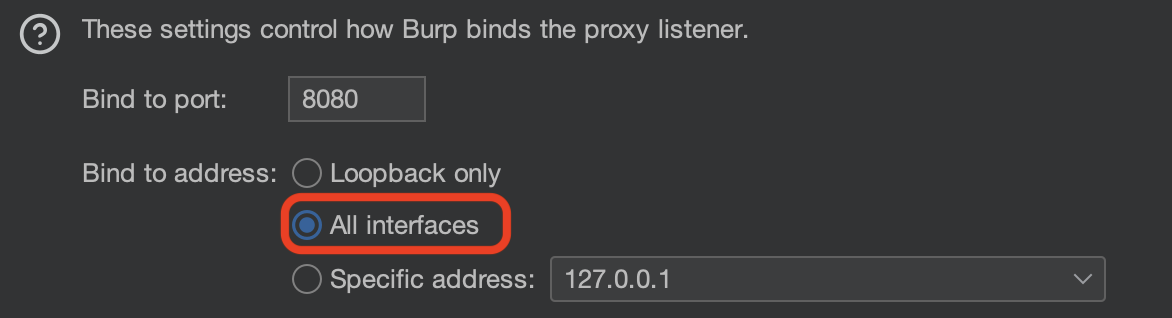
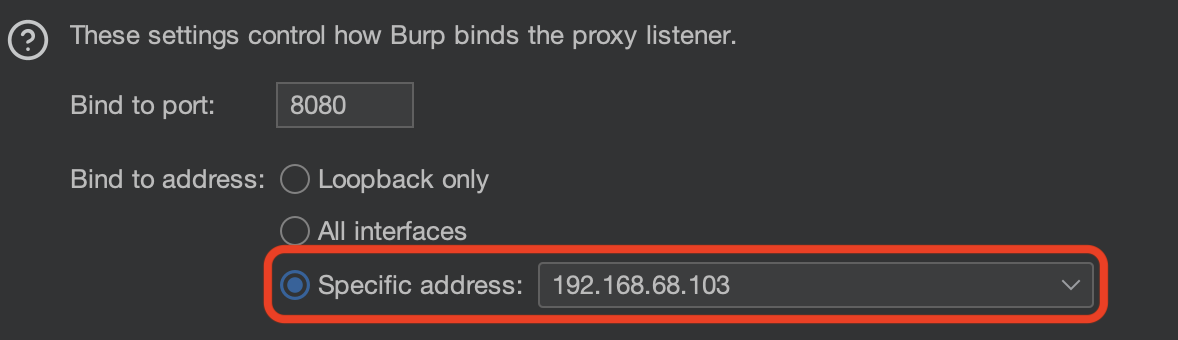
blog changes

diff --git a/src/content/blogs/rooted-android-vm-with-android-studio.md b/src/content/blogs/rooted-android-vm-with-android-studio.md
@@ -92,10 +92,16 @@ emulator64_arm64:/ #
 
 # Setting up Burp Suite
 
-Firstly, open Burp Suite and change your proxy listener from 'Loopback only' to 'All interfaces'.
-
+Firstly, open Burp Suite and change your proxy listener from 'Loopback only' to 'Specific address'. 
 
 ![burp settings](images/rootedandroid/burpsuiteproxy.png)
+
+The address should be selected based on the IP from this command (which retrieves your current local IP address from your WiFi or Ethernet connection, whatever is on `en0`):
+```bash
+ipconfig getifaddr en0
+```
+
+> Note that doing this means the proxy will be available to everyone on your current WiFi network.
 
 Then get the certificate by pressing the 'Import / export certificate' button. Select 'Certificate in DER', then export. I save mine as `burpcert.der`
 
@@ -141,13 +147,7 @@ Go to the settings, then WiFi, then press the 'Settings' icon on the WiFi connec
 
 > Sometimes you may see a TPLink SIM connection, just ignore it.
 
-On your host, find the IP address for your device on your current network. For Mac this can be done like this:
-```bash
-ipconfig getifaddr en0
-```
-
-Modify your proxy settings to the following, except make sure to substitute your 'Proxy hostname' for your IP.
-
+Modify your proxy settings to the following, except make sure to substitute your 'Proxy hostname' for the IP you set in Burp Suite.
 
 ![Settings for the WiFi proxy](images/rootedandroid/wifiproxysettings.png)
 
